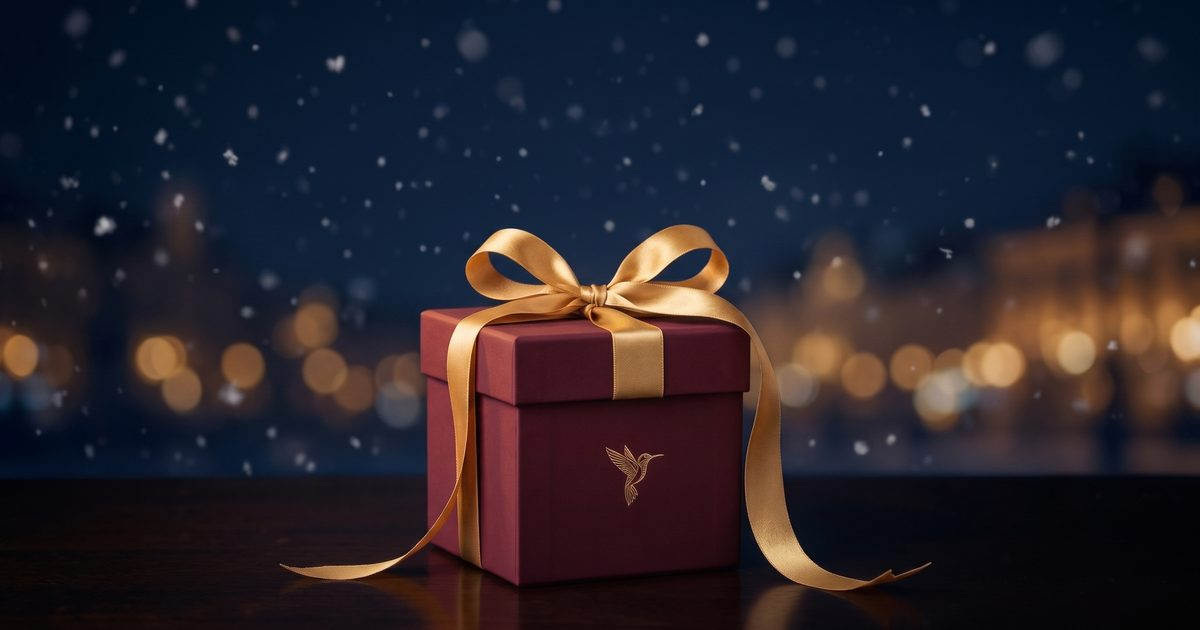
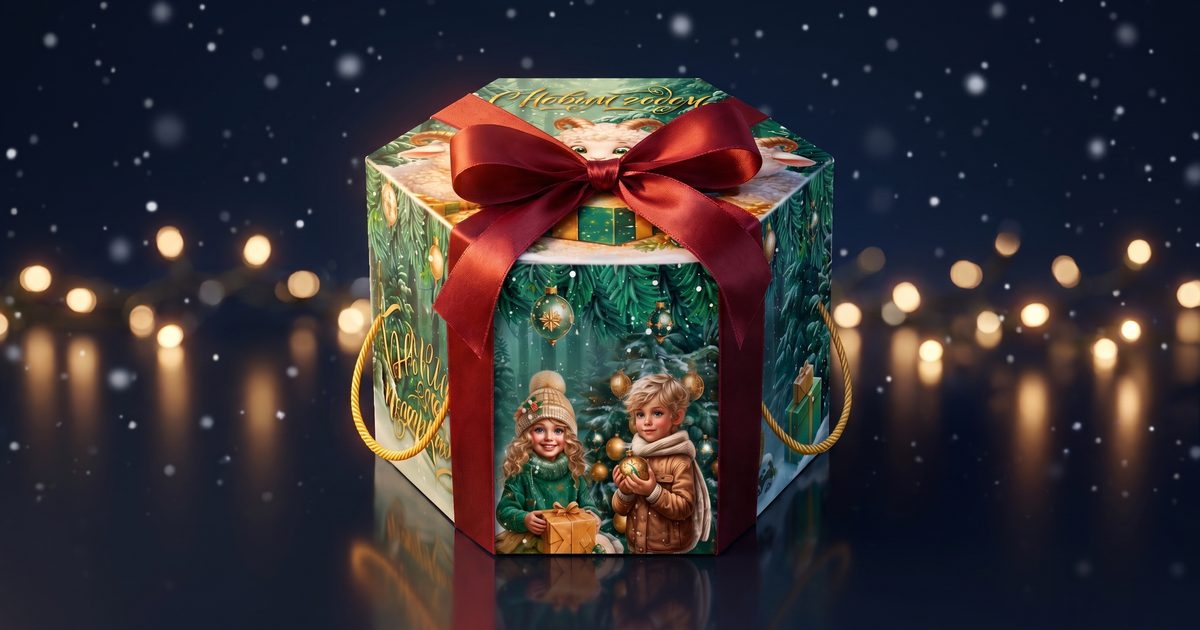
Calibri_gift: адаптив + производительность + новая подложка (овечка)
- GiftScene: fix обрезки на телефоне — canvas contain на узких экранах,
  cover только на ~16:9 (кадр ложится ровно); clearRect под тёмные поля
- Hero: убрана бордовая подложка frame-09, поставлена овечка с подарком
  (hero-sheep.webp, прозрачный фон), min-h-svh для мобильного вьюпорта
- OG-превью пересоздано из зелёной коробки (было бордовое)
- Snow: вдвое меньше частиц на мобильных + пауза rAF вне вьюпорта (IO)

diff --git a/Calibri_gift/components/Snow.tsx b/Calibri_gift/components/Snow.tsx
@@ -42,7 +42,9 @@ export default function Snow({ density = 1 }: { density?: number }) {
       canvas.height = h * dpr;
       ctx.setTransform(dpr, 0, 0, dpr, 0, 0);
 
-      const count = Math.round(((w * h) / 14000) * density);
+      // на мобильных снижаем плотность вдвое — экономим CPU/батарею
+      const perArea = window.innerWidth < 768 ? 26000 : 14000;
+      const count = Math.round(((w * h) / perArea) * density);
       flakes = Array.from({ length: count }, () => {
         const depth = Math.random();
         return {
@@ -93,16 +95,34 @@ export default function Snow({ density = 1 }: { density?: number }) {
         ctx.fill();
       }
 
-      raf = requestAnimationFrame(tick);
+      raf = visible ? requestAnimationFrame(tick) : 0;
     };
 
     resize();
-    tick();
     window.addEventListener("resize", resize);
     window.addEventListener("mousemove", onMove);
 
+    // рисуем только когда канвас на экране — вне вьюпорта rAF не крутится
+    let visible = false;
+    const run = () => {
+      if (visible && !raf) raf = requestAnimationFrame(tick);
+    };
+    const io = new IntersectionObserver(
+      (entries) => {
+        visible = entries[0].isIntersecting;
+        if (visible) run();
+        else if (raf) {
+          cancelAnimationFrame(raf);
+          raf = 0;
+        }
+      },
+      { rootMargin: "100px" }
+    );
+    io.observe(canvas);
+
     return () => {
-      cancelAnimationFrame(raf);
+      if (raf) cancelAnimationFrame(raf);
+      io.disconnect();
       window.removeEventListener("resize", resize);
       window.removeEventListener("mousemove", onMove);
     };

diff --git a/Calibri_gift/components/GiftScene.tsx b/Calibri_gift/components/GiftScene.tsx
@@ -241,10 +241,20 @@ export default function GiftScene() {
         canvas.height = ch * dpr;
         ctx.setTransform(dpr, 0, 0, dpr, 0, 0);
       }
-      // object-cover: центрируем и кропим
-      const scale = Math.max(cw / img.naturalWidth, ch / img.naturalHeight);
-      const dw = img.naturalWidth * scale;
-      const dh = img.naturalHeight * scale;
+      // на широких экранах — cover (во весь экран), на узких (телефон) —
+      // contain, чтобы коробка не обрезалась по краям; всегда центрируем
+      const nw = img.naturalWidth;
+      const nh = img.naturalHeight;
+      // cover только на широких ~16:9 экранах (кадр 16:9 ложится ровно);
+      // на всех уже — contain, чтобы коробка не обрезалась
+      const wide = cw / ch >= 1.5;
+      const scale = wide
+        ? Math.max(cw / nw, ch / nh)
+        : Math.min(cw / nw, ch / nh);
+      // очищаем (для contain — тёмные поля вместо старого кадра)
+      ctx.clearRect(0, 0, cw, ch);
+      const dw = nw * scale;
+      const dh = nh * scale;
       ctx.drawImage(img, (cw - dw) / 2, (ch - dh) / 2, dw, dh);
 
       if (!drawnOnce) {

diff --git a/Calibri_gift/ROADMAP.md b/Calibri_gift/ROADMAP.md
@@ -125,6 +125,11 @@
       (`scripts/extract-scene.mjs`: склейка, срез вотермарка Kling, 14 к/с).
       Старые Veo-видео сохранены как `design/gift-src/video/legacy 1|2.mp4`.
       Видео-исходники убраны из git (тяжёлые) — в репо только кадры
+- [x] Адаптив/производительность: сцена подарка на телефоне не обрезается
+      (canvas contain на узких экранах, cover на ~16:9); hero на 100svh;
+      снег — вдвое меньше частиц на мобильных + пауза rAF вне экрана
+- [x] Hero: убрана бордовая подложка, поставлена овечка с подарком
+      (`hero-sheep.webp`); OG-превью пересоздано из зелёной коробки
 - [x] Правки ритма сцены: обрезано статичное начало (−1.6с), меньше кадров
       (101 вместо 140), видео укладывается в первые 72% скролла, карточки
       выходят ПОСЛЕ полного вылета шаров (не перекрывают их)
